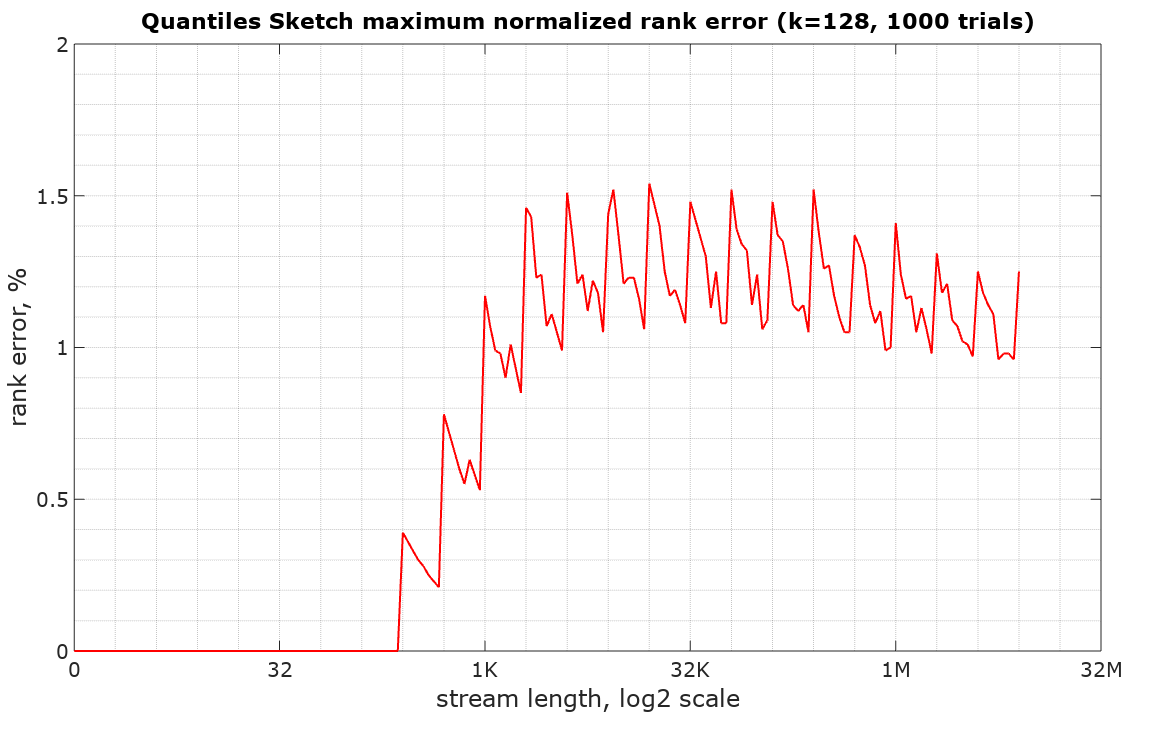
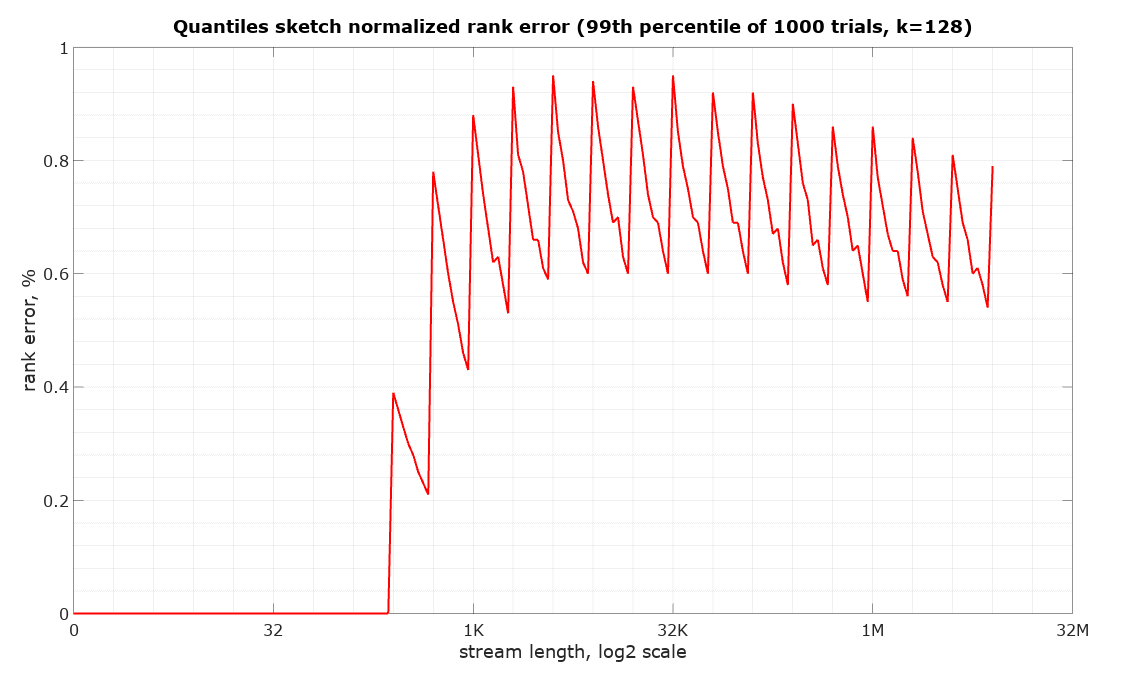
99th percentile instead of max

diff --git a/docs/Quantiles/QuantilesAccuracy.md b/docs/Quantiles/QuantilesAccuracy.md
@@ -85,7 +85,6 @@ The absolute rank error vs the trueRanks produced the following graph.
 
 All of these plots were generated from one set of values, and is not a test of the error bounds. 
 
-The following plot illustrates the maximum observed normalized rank error of DoublesSketch with k=128 in 1000 trials at each stream length. The code to reproduce this measurement is available in the  [DataSketches/characterization](https://github.com/DataSketches/characterization/tree/master/src/main/java/com/yahoo/sketches/characterization/quantiles) repository.  Note that these measurements are not directly comparable to the values in the table above as this graph plots the actual maximum of 1000 
-trials for only the half-open intervals (-Infinity, Q], which is relevant to simple queries such as <i>getRank(double value)</i>.
+The following plot illustrates the 99th percentile of observed normalized rank error of DoublesSketch with k=128 in 1000 trials at each stream length. The code to reproduce this measurement is available in the  [DataSketches/characterization](https://github.com/DataSketches/characterization/tree/master/src/main/java/com/yahoo/sketches/characterization/quantiles) repository. Note that these measurements are not directly comparable to the values in the table above as this graph plots the error for only the half-open intervals (-Infinity, Q], which is relevant to simple queries such as <i>getRank(value)</i>.
 
 <img class="doc-img-full" src="{{site.docs_img_dir}}/quantiles/qds-7-compact-accuracy-1k-20180110.png" alt="QuantilesRankError" />
